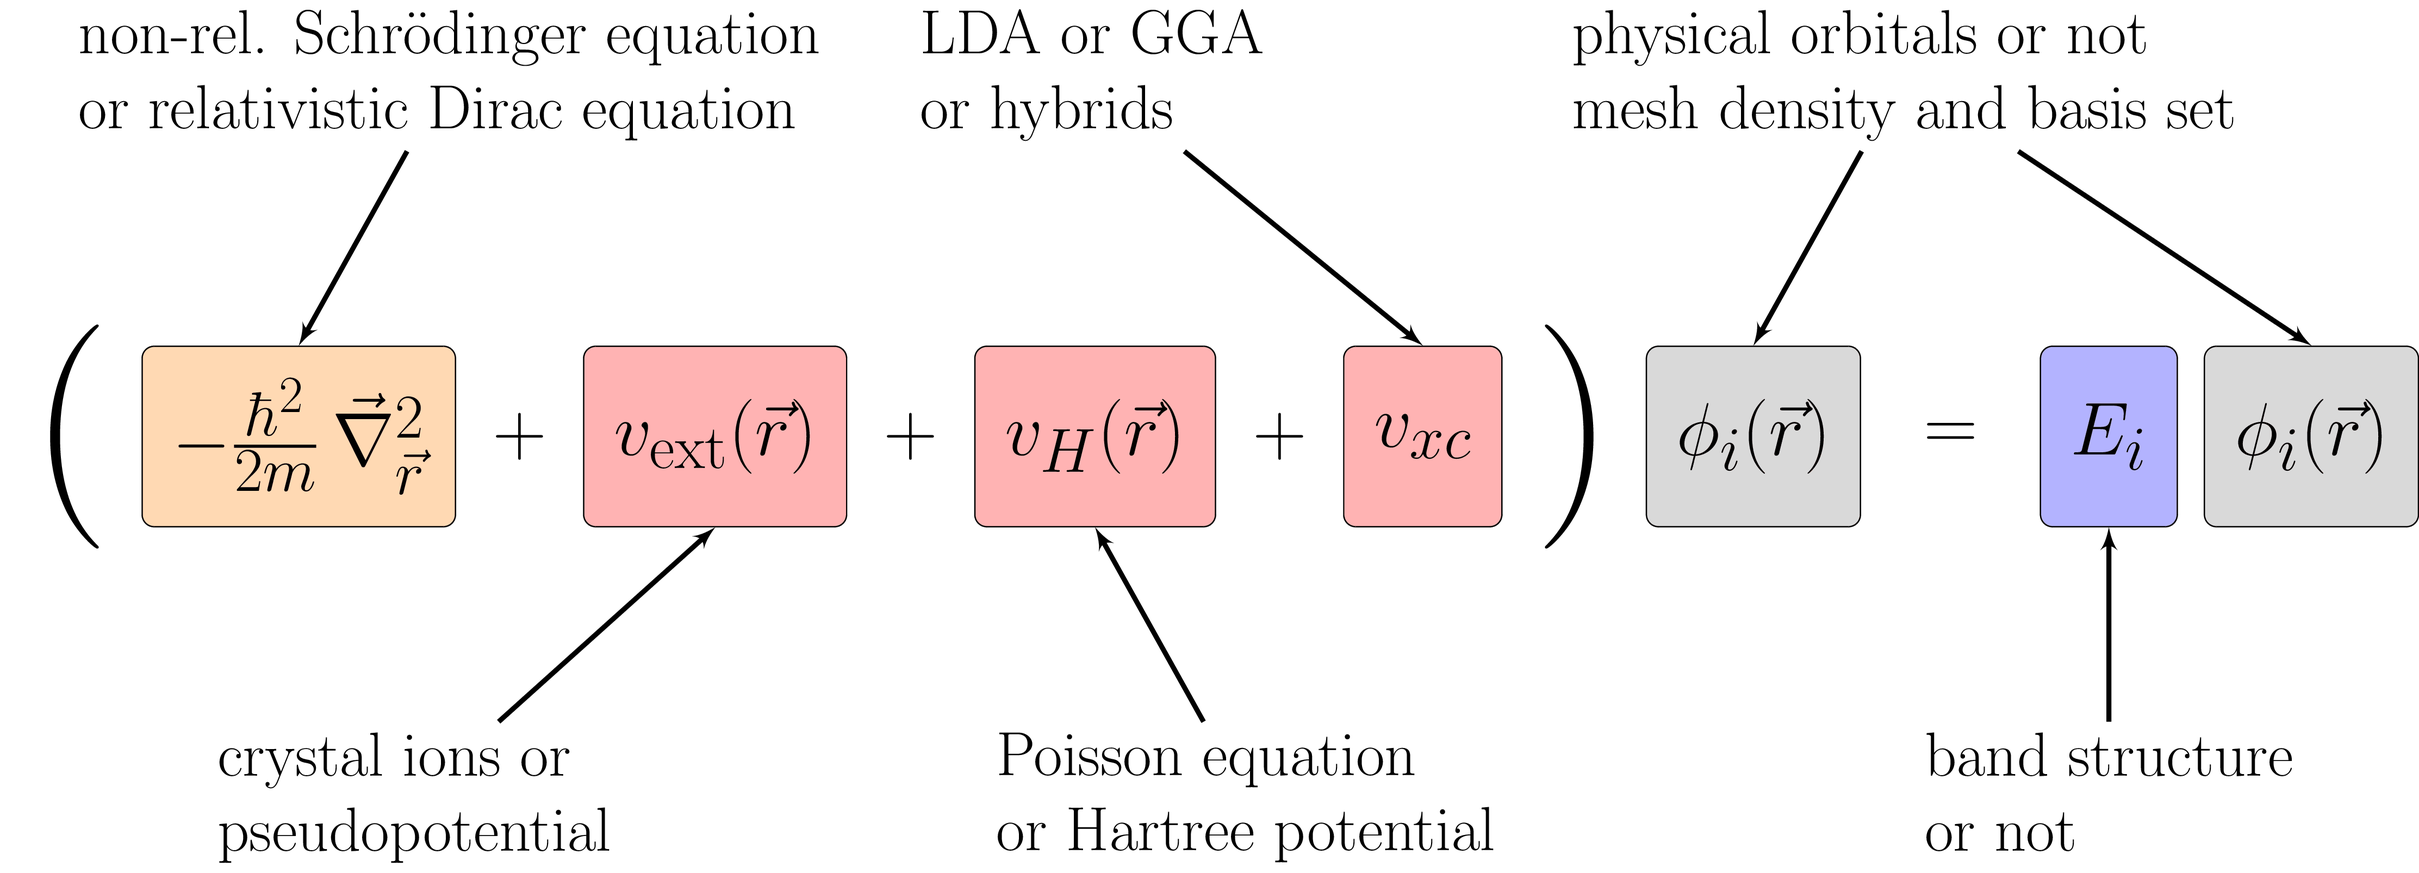
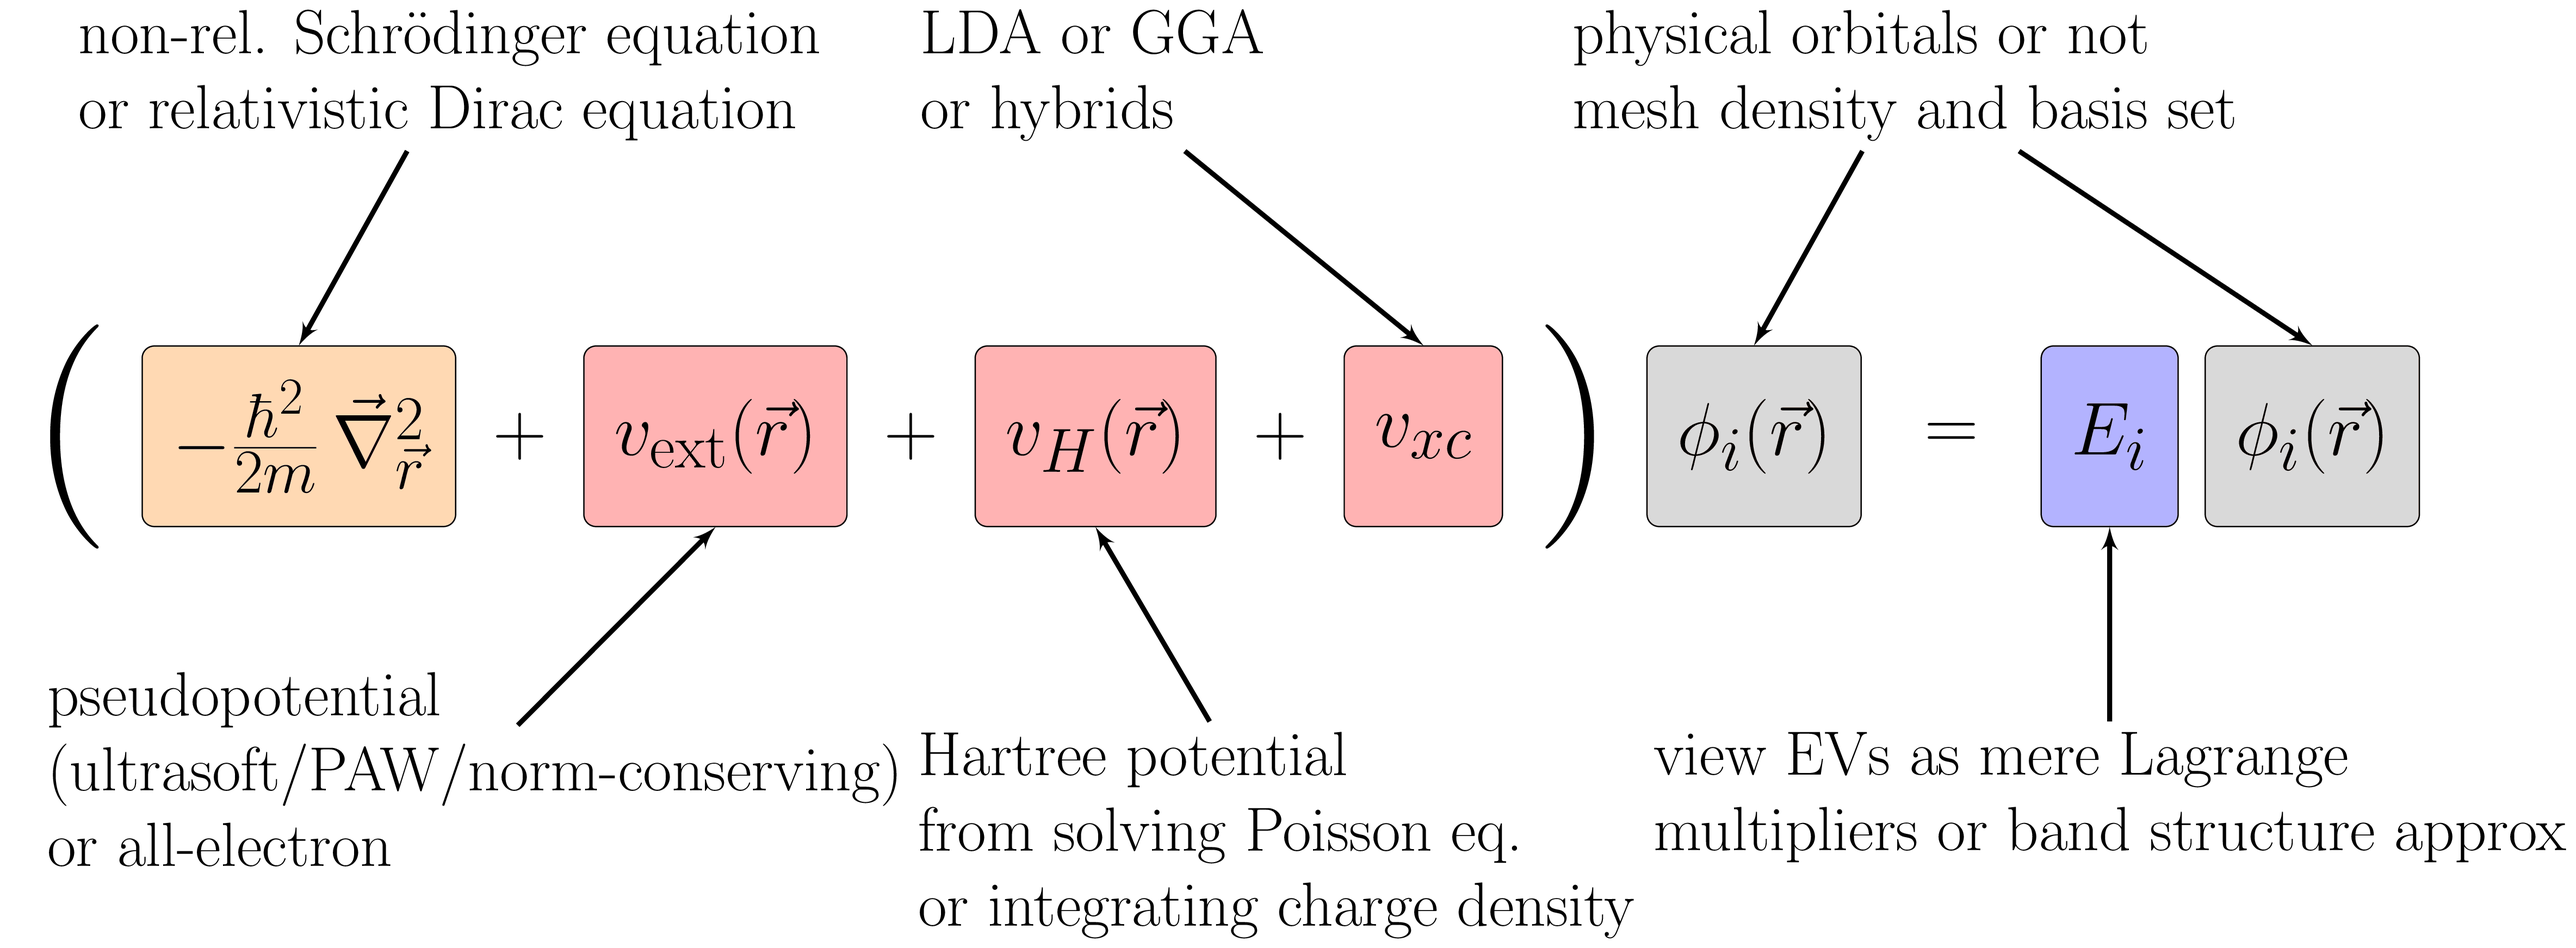
dft-choices.tex fix Hartree v_H and v_ext potential choices

diff --git a/assets/dft-choices/dft-choices.tex b/assets/dft-choices/dft-choices.tex
@@ -1,7 +1,5 @@
 \documentclass[tikz]{standalone}
 
-\usepackage{mathtools}
-
 \usetikzlibrary{positioning,arrows}
 
 \begin{document}
@@ -9,13 +7,13 @@
     g/.style={rectangle,draw,rounded corners,minimum height=6em,inner sep=1em,font=\Huge},
     w/.style={font=\Huge},
     c/.style={node distance=15ex,align=left,font=\huge},
-    a/.style={draw,-latex',ultra thick}
+    arrow/.style={draw,-latex',ultra thick}
   ]
 
   \node [w,scale=3] (bra) {(};
   \node [node distance=0ex,fill=orange!30,g,right=of bra] (kinetic) {$-\frac{\hbar^2}{2m}\,\vec{\nabla}_{\vec{r}}^2$};
   \node [node distance=2ex,w,right=of kinetic] (plus1) {$+$};
-  \node [node distance=2ex,fill=red!30,g,right=of plus1] (external) {$v_\text{ext}(\vec{r})$};
+  \node [node distance=2ex,fill=red!30,g,right=of plus1] (external) {$v_\mathrm{ext}(\vec{r})$};
   \node [node distance=2ex,w,right=of external] (plus2) {$+$};
   \node [node distance=2ex,fill=red!30,g,right=of plus2] (hartree) {$v_H(\vec{r})$};
   \node [node distance=2ex,w,right=of hartree] (plus3) {$+$};
@@ -27,19 +25,19 @@
   \node [node distance=2ex,fill=gray!30,g,right=of energy] (phi2) {$\phi_i(\vec{r})$};
 
   \node [c,above=of kinetic,xshift=5em] (kinetic comment) {non-rel. Schrödinger equation\\or relativistic Dirac equation};
-  \node [c,below=of external,xshift=-10em] (external comment) {crystal ions or\\pseudopotential};
-  \node [c,below=of hartree,xshift=5em] (hartree comment) {Poisson equation\\or Hartree potential};
+  \node [c,below=of external,xshift=-8em,yshift=2em] (external comment) {pseudopotential\\(ultrasoft/PAW/norm-conserving)\\or all-electron};
+  \node [c,below=of hartree,xshift=6em] (hartree comment) {Hartree potential\\from solving Poisson eq.\\or integrating charge density};
   \node [c,above=of xc,xshift=-11em] (xc comment) {LDA or GGA\\or hybrids};
   \node [c,above=of phi1,xshift=5em] (phi comment) {physical orbitals or not\\mesh density and basis set};
-  \node [c,below=of energy] (energy comment) {band structure\\ or not};
+  \node [c,below=of energy] (energy comment) {view EVs as mere Lagrange\\multipliers or band structure approx};
 
-  \path [a] (kinetic comment) -- (kinetic.north);
-  \path [a] (external comment) -- (external.south);
-  \path [a] (hartree comment) -- (hartree.south);
-  \path [a] (xc comment) -- (xc.north);
-  \path [a] (phi comment) -- (phi1.north);
-  \path [a] (phi comment) -- (phi2.north);
-  \path [a] (energy comment) -- (energy.south);
+  \path [arrow] (kinetic comment) -- (kinetic.north);
+  \path [arrow,shorten <=-3em] (external comment) -- (external.south);
+  \path [arrow] (hartree comment) -- (hartree.south);
+  \path [arrow] (xc comment) -- (xc.north);
+  \path [arrow] (phi comment) -- (phi1.north);
+  \path [arrow] (phi comment) -- (phi2.north);
+  \path [arrow] (energy comment) -- (energy.south);
 
 \end{tikzpicture}
 \end{document}
